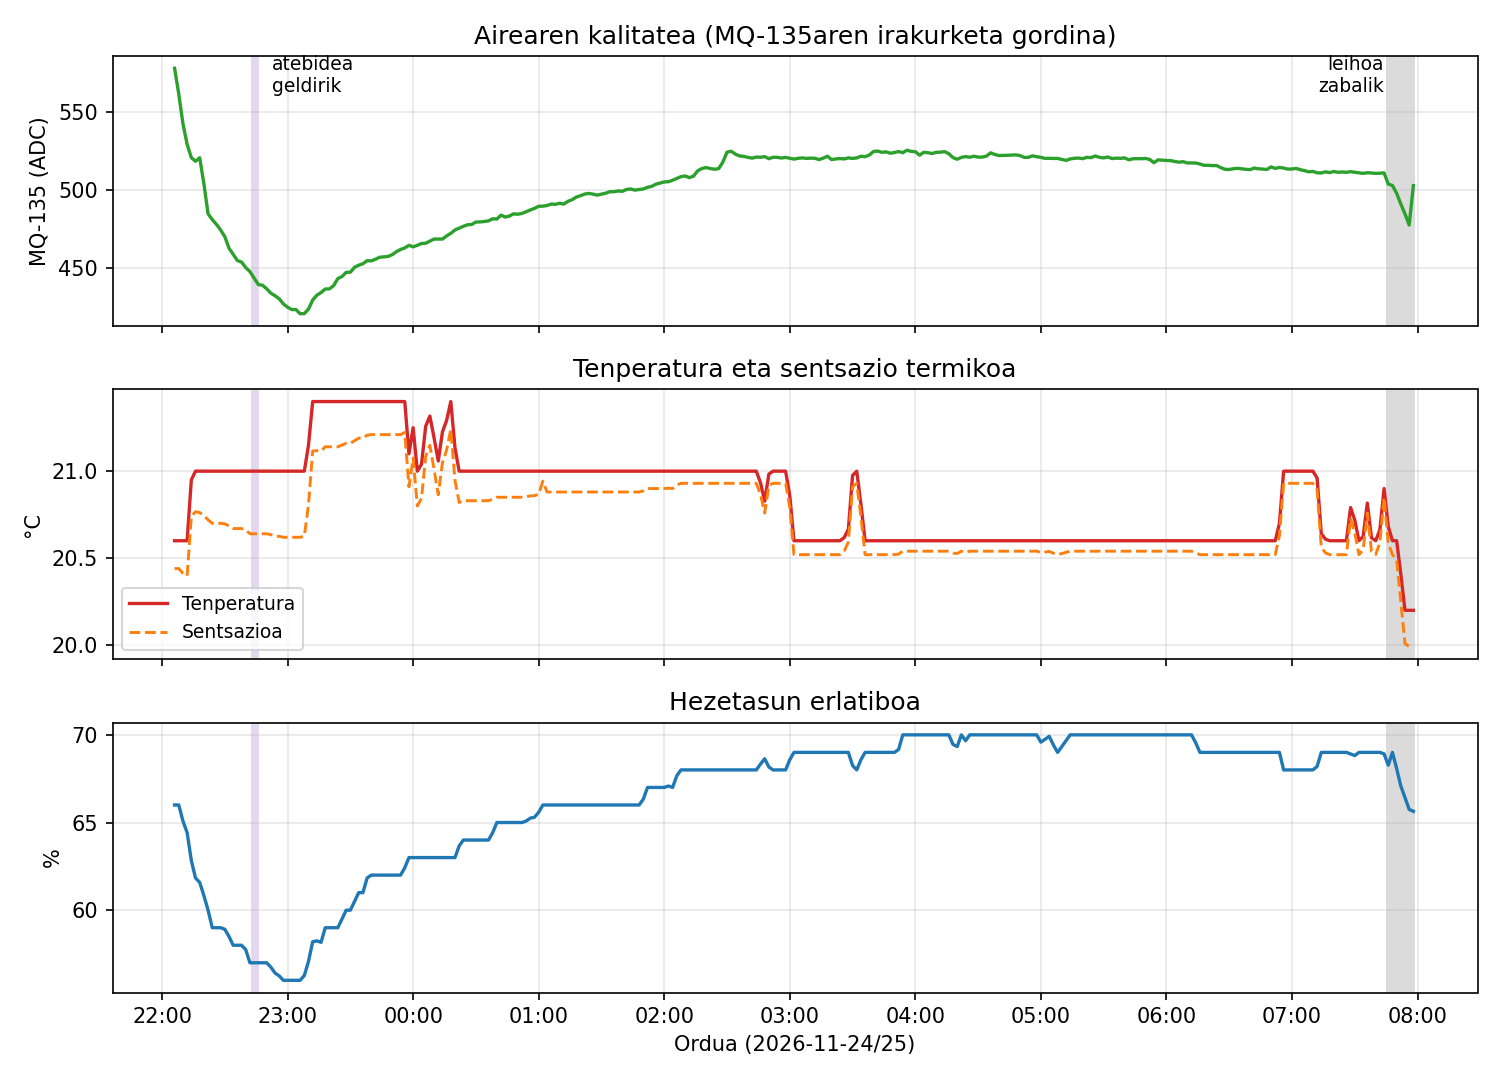
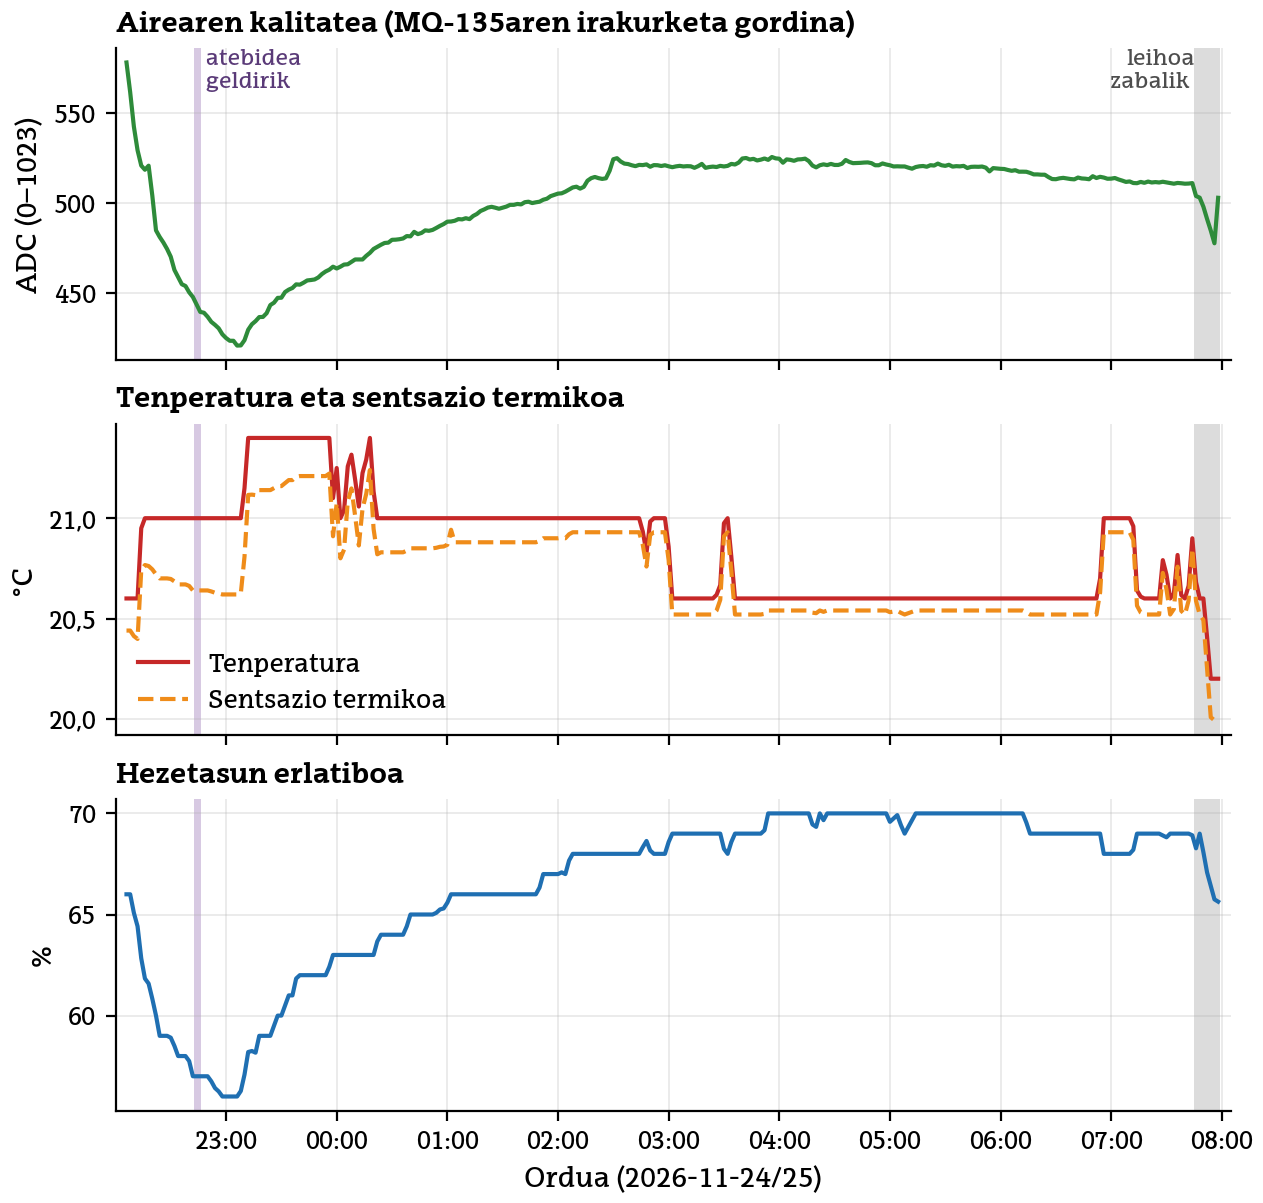
Gaueko eta goizeko grafikoak estilo bateratuarekin (iot/grafikoak.py): EHU Serif, koma hamartarra, ordu lokala
- gaua.png ere UTCn zegoen: tarte erreala 01:40-02:46 (testua eta oina zuzenduta);
  batez besteko mugikorra bera (40 puntu zentratua), testuko balioak aldatu gabe
- goiza.png: datu berberak, ardatza 'ADC (0-1023)', izenburu neutroa
- grafikoa_gaua2.py grafikoak.py-n sartuta

diff --git a/iot/grafikoak.py b/iot/grafikoak.py
@@ -1,0 +1,198 @@
+"""GrAL-eko datu-grafiko guztiak estilo berarekin sortzen ditu (GrAL/Irudiak/*.png).
+
+  gaua.png              lehen gaueko proba, 01:40-02:46 tartea (2026-02-11), batez besteko mugikorra
+  goiza.png             leihoa irekitzeko proba (2026-02-11, 07:40-07:54)
+  gaua2.png             bigarren gaueko proba (2026-11-24/25)
+  irismen_rssi_snr.png  irismen-proba SF7 (LoRa.h)        -> datuak/irismen-proba_SF7_LoRa.csv
+  irismen_sf12_rssi.png irismen-proba SF12 (RadioLib)     -> datuak/irismen-proba_SF12_RadioLib.csv
+
+Orduak ordu lokalean (Europe/Madrid). Erabilera:  python iot/grafikoak.py
+"""
+from pathlib import Path
+
+import matplotlib
+matplotlib.use("Agg")
+import matplotlib.dates as mdates
+import matplotlib.pyplot as plt
+import matplotlib.ticker as mticker
+import numpy as np
+import pandas as pd
+from matplotlib import font_manager
+
+ROOT = Path(__file__).resolve().parent.parent
+IOT = ROOT / "iot" / "datuak"
+IRIS = ROOT / "datuak"
+OUT = ROOT / "GrAL" / "Irudiak"
+
+# --- Estiloa: memoriaren letra-tipoa (EHU Serif), koma hamartarra ---------------------------
+for f in (ROOT / "GrAL" / "EHU Serif").glob("*.otf"):
+    font_manager.fontManager.addfont(str(f))
+plt.rcParams.update({
+    "font.family": "EHUSerif", "font.size": 10, "axes.titlesize": 10, "axes.labelsize": 10,
+    "legend.fontsize": 9, "xtick.labelsize": 9, "ytick.labelsize": 9,
+    "axes.grid": True, "grid.alpha": 0.3, "grid.linewidth": 0.6,
+    "axes.spines.top": False, "axes.spines.right": False,
+    "axes.titlelocation": "left", "axes.titleweight": "bold",
+    "figure.dpi": 100, "savefig.dpi": 200, "savefig.bbox": "tight", "savefig.pad_inches": 0.05,
+    "legend.frameon": False, "lines.linewidth": 1.5,
+})
+C_PPM, C_T, C_S, C_H = "#2e8b3a", "#c62828", "#ef8c1a", "#1f6fb2"
+C_RSSI, C_SNR = "#1f4fb2", "#2e8b3a"
+GRIS = "0.55"
+
+
+def koma(dec):
+    return mticker.FuncFormatter(lambda v, _: f"{v:.{dec}f}".replace(".", ",").replace("-", "−"))
+
+
+def ordu_ardatza(ax, locator, xlabel):
+    ax.xaxis.set_major_locator(locator)
+    ax.xaxis.set_major_formatter(mdates.DateFormatter("%H:%M"))
+    ax.set_xlabel(xlabel)
+
+
+def hiru_panel(height=6.0):
+    fig, ax = plt.subplots(3, 1, figsize=(6.3, height), sharex=True, constrained_layout=True)
+    return fig, ax
+
+
+def irakurri_otsaila():
+    d = pd.read_csv(IOT / "proba_gaua_goiza_2026-02-11.csv")
+    d.columns = ["time", "hum", "ppm", "sens", "temp"]
+    d["time"] = pd.to_datetime(d["time"].str[:19])
+    d = d.dropna()
+    hondatuak = (d.ppm > 1023) | (d.sens > 60) | (d.temp > 60) | (d.hum > 100)  # CRC gabeko paketeak
+    return d[~hondatuak].set_index("time")
+
+
+def panelak(ax, d, gordinak=None, markers=False):
+    """MQ-135 / tenperatura+sentsazioa / hezetasuna. `gordinak` emanez gero, atzean argi marraztu."""
+    mk = dict(marker="o", ms=3.5) if markers else {}
+    if gordinak is not None:
+        ax[0].plot(gordinak.index, gordinak.ppm, color=C_PPM, lw=0.8, alpha=0.3)
+        ax[1].plot(gordinak.index, gordinak.temp, color=C_T, lw=0.8, alpha=0.3)
+        ax[2].plot(gordinak.index, gordinak.hum, color=C_H, lw=0.8, alpha=0.3)
+    ax[0].plot(d.index, d.ppm, color=C_PPM, **mk)
+    ax[0].set_title("Airearen kalitatea (MQ-135aren irakurketa gordina)")
+    ax[0].set_ylabel("ADC (0–1023)")
+    ax[1].plot(d.index, d.temp, color=C_T, label="Tenperatura", **mk)
+    ax[1].plot(d.index, d.sens, color=C_S, ls="--", label="Sentsazio termikoa", **mk)
+    ax[1].set_title("Tenperatura eta sentsazio termikoa")
+    ax[1].set_ylabel("°C")
+    ax[2].plot(d.index, d.hum, color=C_H, **mk)
+    ax[2].set_title("Hezetasun erlatiboa")
+    ax[2].set_ylabel("%")
+    for a in ax:
+        a.margins(x=0.01)
+
+
+# --- 1. Lehen gaueko proba: 01:40-02:46, 80 min-ko batez besteko mugikor zentratua -----------
+def gaua():
+    d = irakurri_otsaila()
+    leuna = d.rolling(40, center=True, min_periods=1).mean()   # 40 × 2 min
+    t0, t1 = "2026-02-11 01:40", "2026-02-11 02:46"
+    fig, ax = hiru_panel()
+    panelak(ax, leuna.loc[t0:t1], gordinak=d.loc[t0:t1])
+    ax[0].yaxis.set_major_formatter(koma(0))
+    ax[1].yaxis.set_major_formatter(koma(2))
+    ax[2].yaxis.set_major_formatter(koma(1))
+    ax[1].plot([], [], color="0.4", lw=0.8, alpha=0.4, label="2 min-ko batez bestekoak")
+    ax[1].legend(loc="lower right", bbox_to_anchor=(1, 0.98), ncol=3, fontsize=8)
+    ordu_ardatza(ax[2], mdates.MinuteLocator(byminute=range(0, 60, 10)), "Ordua (2026-02-11)")
+    fig.savefig(OUT / "gaua.png")
+    plt.close(fig)
+    print("gaua:", leuna.loc[t0:t1].iloc[[0, -1]].round(2).to_dict("list"))
+
+
+# --- 2. Leihoa irekitzeko proba (2026-02-11 goiza) --------------------------------------------
+def goiza():
+    d = irakurri_otsaila().loc["2026-02-11 07:40":"2026-02-11 07:54"]
+    fig, ax = hiru_panel(5.6)
+    panelak(ax, d, markers=True)
+    ax[0].yaxis.set_major_formatter(koma(0))
+    ax[1].yaxis.set_major_formatter(koma(1))
+    ax[2].yaxis.set_major_formatter(koma(0))
+    ax[1].legend(loc="upper right")
+    ordu_ardatza(ax[2], mdates.MinuteLocator(byminute=range(0, 60, 2)), "Ordua (2026-02-11)")
+    fig.savefig(OUT / "goiza.png")
+    plt.close(fig)
+    print("goiza:", d.round(2).to_dict("list"))
+
+
+# --- 3. Bigarren gaueko proba (2026-11-24/25) -------------------------------------------------
+def gaua2():
+    d = pd.read_csv(IOT / "proba_gaua_2026-11-25_2min.csv")
+    d["time"] = pd.to_datetime(d["time"].str[:19])
+    d = d.rename(columns=lambda c: c.replace("mqtt_consumer.mean_", "")).set_index("time")
+    leihoa = (pd.Timestamp("2026-11-25 07:45"), pd.Timestamp("2026-11-25 07:59"))
+    etena = (pd.Timestamp("2026-11-24 22:42:45"), pd.Timestamp("2026-11-24 22:46:25"))
+    fig, ax = hiru_panel()
+    panelak(ax, d)
+    ax[0].yaxis.set_major_formatter(koma(0))
+    ax[1].yaxis.set_major_formatter(koma(1))
+    ax[2].yaxis.set_major_formatter(koma(0))
+    for a in ax:
+        a.axvspan(*leihoa, color=GRIS, alpha=0.3, lw=0)
+        a.axvspan(*etena, color="#7b4fa0", alpha=0.3, lw=0)
+    y = ax[0].get_ylim()[1]
+    ax[0].text(leihoa[0], y, "leihoa\nzabalik ", ha="right", va="top", fontsize=8, color="0.3")
+    ax[0].text(etena[1], y, " atebidea\n geldirik", ha="left", va="top", fontsize=8, color="#5a3a78")
+    ax[1].legend(loc="lower left")
+    ordu_ardatza(ax[2], mdates.HourLocator(), "Ordua (2026-11-24/25)")
+    fig.savefig(OUT / "gaua2.png")
+    plt.close(fig)
+
+
+# --- 4. Irismen-probak (RSSI eta SNR) ---------------------------------------------------------
+def segmentuak(df, max_jauzia):
+    """Lerroa eten pakete asko galdu diren tokietan (bestela, daturik gabeko tarteak lerro zuzenez lotzen dira)."""
+    df = df.reset_index(drop=True)
+    eten = df.pkt.diff() > max_jauzia
+    out = df.astype(float).copy()
+    rows = []
+    for i in range(len(df)):
+        if eten.iloc[i]:
+            rows.append({"pkt": np.nan, "rssi": np.nan, "snr": np.nan})
+        rows.append(out.iloc[i].to_dict())
+    return pd.DataFrame(rows)
+
+
+def irismen(csv, fitx, sens, sens_label, faseak=None, distantziak=None, max_jauzia=10):
+    df = pd.read_csv(csv)
+    s = segmentuak(df, max_jauzia)
+    fig, ax = plt.subplots(2, 1, figsize=(6.3, 4.8), sharex=True, constrained_layout=True)
+    for a, col, c, lab in ((ax[0], "rssi", C_RSSI, "RSSI (dBm)"), (ax[1], "snr", C_SNR, "SNR (dB)")):
+        a.plot(s.pkt, s[col], color=c, lw=1.0)
+        a.plot(df.pkt, df[col], "o", color=c, ms=2.2)
+        a.set_ylabel(lab)
+        a.yaxis.set_major_formatter(koma(0))
+    ax[0].axhline(sens, color="#c62828", ls="--", lw=1)
+    ax[0].text(ax[0].get_xlim()[0], sens, f"  {sens_label}", va="bottom", fontsize=8, color="#c62828")
+    ax[1].axhline(0, color="0.3", lw=0.8, ls=":")
+    ax[1].set_xlabel("Pakete-zenbakia")
+    if faseak:
+        for (a0, a1, kol, lab) in faseak:
+            for a in ax:
+                a.axvspan(a0, a1, color=kol, alpha=0.18, lw=0)
+            ax[0].text((a0 + a1) / 2, ax[0].get_ylim()[1], lab, ha="center", va="top", fontsize=8, color="0.25")
+    if distantziak:
+        for p, lab in distantziak:
+            for a in ax:
+                a.axvline(p, color="0.5", ls=":", lw=0.9)
+            ax[0].text(p, ax[0].get_ylim()[1], lab, ha="center", va="bottom", fontsize=8, color="0.3")
+    fig.savefig(OUT / fitx)
+    plt.close(fig)
+
+
+if __name__ == "__main__":
+    gaua()
+    goiza()
+    gaua2()
+    sf7, sf12 = IRIS / "irismen-proba_SF7_LoRa.csv", IRIS / "irismen-proba_SF12_RadioLib.csv"
+    if sf7.exists():
+        irismen(sf7, "irismen_rssi_snr.png", -126, "sentsibilitate-muga praktikoa (≈ −126 dBm)",
+                faseak=[(447, 480, "#2e8b3a", "1"), (480, 535, "#9ccc65", "2"), (535, 605, "#ef8c1a", "3"),
+                        (605, 975, "#c62828", "4"), (975, 1063, "#1f6fb2", "5")])
+    if sf12.exists():
+        irismen(sf12, "irismen_sf12_rssi.png", -136, "SX1276 SF12 sentsibilitate nominala (−136 dBm)",
+                distantziak=[(65, "350 m"), (111, "507 m"), (167, "672 m"), (210, "775 m")])

diff --git a/GrAL/main.tex b/GrAL/main.tex
@@ -821,14 +821,14 @@ Kapitulu honetan, garatutako sistemaren balioztatze esperimentala aurkezten da. 
 
 Gauez etengabeko monitorizazioa egin da ingurune itxi batean, otsailaren 10eko 23:12etik 11ko 03:24ra arte (4 ordu inguru). Proba honen helburua bi alderdi egiaztatzea izan da: batetik, datu-bilketan etenik dagoen ala ez, eta, bestetik, sentsoreek ingurune egonkor batean aldaketa txikiak detektatzeko duten gaitasuna. Erregistroa 03:24an amaitzen da, eta goizeko proba (\ref{sec:leihoa}.~atala) 07:38an hasi zen.\\
 
-\ref{fig:emaitzak_gaua}.~irudian monitorizazio horren tarte bat ageri da (00:40--01:46). Tenperaturak 0,5--0,8~°C-ko gorabehera periodikoak izan ditu, 10--12 minutuko periodoarekin, eta hezetasunak, aldi berean, aurkako noranzkoan egin du gora eta behera (tenperatura jaistean, hezetasun erlatiboa igo). Grafikoan batez besteko mugikorra aplikatu da, joera nagusia erakusteko.
+\ref{fig:emaitzak_gaua}.~irudian monitorizazio horren tarte bat ageri da (01:40--02:46). Tenperaturak 0,5--0,8~°C-ko gorabehera periodikoak izan ditu, 10--12 minutuko periodoarekin, eta hezetasunak, aldi berean, aurkako noranzkoan egin du gora eta behera (tenperatura jaistean, hezetasun erlatiboa igo). Grafikoan batez besteko mugikorra aplikatu da, joera nagusia erakusteko.
 
 \begin{figure}[!htbp]
     \centering
     \IfFileExists{Irudiak/gaua.png}
     {\includegraphics[width=0.85\textwidth]{Irudiak/gaua.png}}
     {} 
-    \caption{Gaueko monitorizazioa (00:40--01:46, batez besteko mugikorrarekin leunduta): MQ-135aren irakurketa, tenperatura eta hezetasuna}
+    ption{Gaueko monitorizazioa (01:40--02:46): MQ-135aren irakurketa, tenperatura eta hezetasuna. Lerro lodiak: 80 minutuko batez besteko mugikorra; lerro argiak: 2 minutuko batez bestekoak}
     \label{fig:emaitzak_gaua}
 \end{figure}
 

diff --git a/README.md b/README.md
@@ -40,7 +40,7 @@ oinarritua, eta web bidez bistaratzeko eta kontrolatzeko **IoT** pila batekin
 | `ARDUINO/firmware/Programa_del_modulo_central/` | Modulu zentralaren firmwarea (LoRa jaso, LCD, botoia, serie-atakako aginduak LoRa bidez birbidali) |
 | `iot/arduinopython.py` | Python atebidea: Serie (USB) → MQTT (JSON, `sentsoreak/data` gaia) eta MQTT (`sentsoreak/aginduak`) → Serie |
 | `iot/docker-compose.yml`, `iot/telegraf.conf` | IoT pilaren konfigurazioa (EMQX, InfluxDB 1.8, Telegraf, Chronograf) |
-| `iot/esportatu.py`, `iot/grafikoa_gaua2.py` | InfluxDBko datuak CSVra esportatu; bigarren gaueko probaren irudia (`GrAL/Irudiak/gaua2.png`) sortu |
+| `iot/esportatu.py`, `iot/grafikoak.py` | InfluxDBko datuak CSVra esportatu; memoriako datu-grafikoak estilo berarekin sortu (`GrAL/Irudiak/`) |
 | `iot/datuak/` | Gaueko proben datuak: 2026-02-10/11 (Chronograf, 2 min) eta 2026-11-24/25 (gordinak eta 2 min) |
 | `ARDUINO/irismen_proba/` | Irismen-probako sketchak: `beacon_nodo`/`gateway_rssi` (`LoRa.h`, SF7) eta `*_radiolib` (RadioLib, SF7 vs SF12 azterketa) |
 | `ARDUINO/probak/` | Aurretiazko proba-sketchak (igorlea, hartzailea, MQ-135, pantaila, sentsoreak) |
